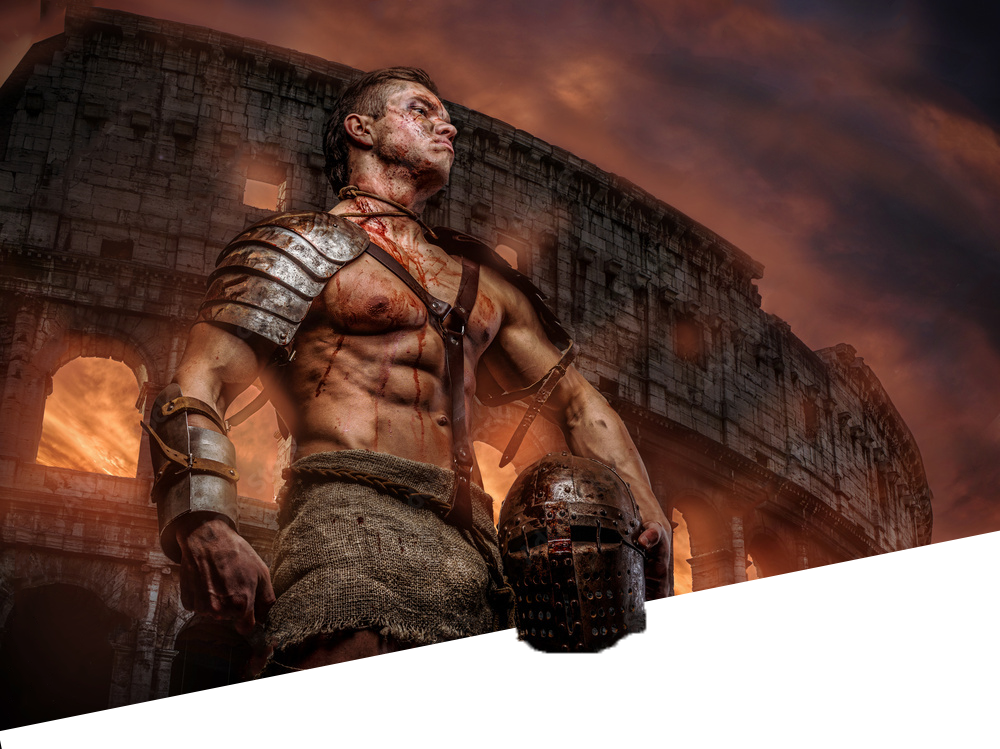
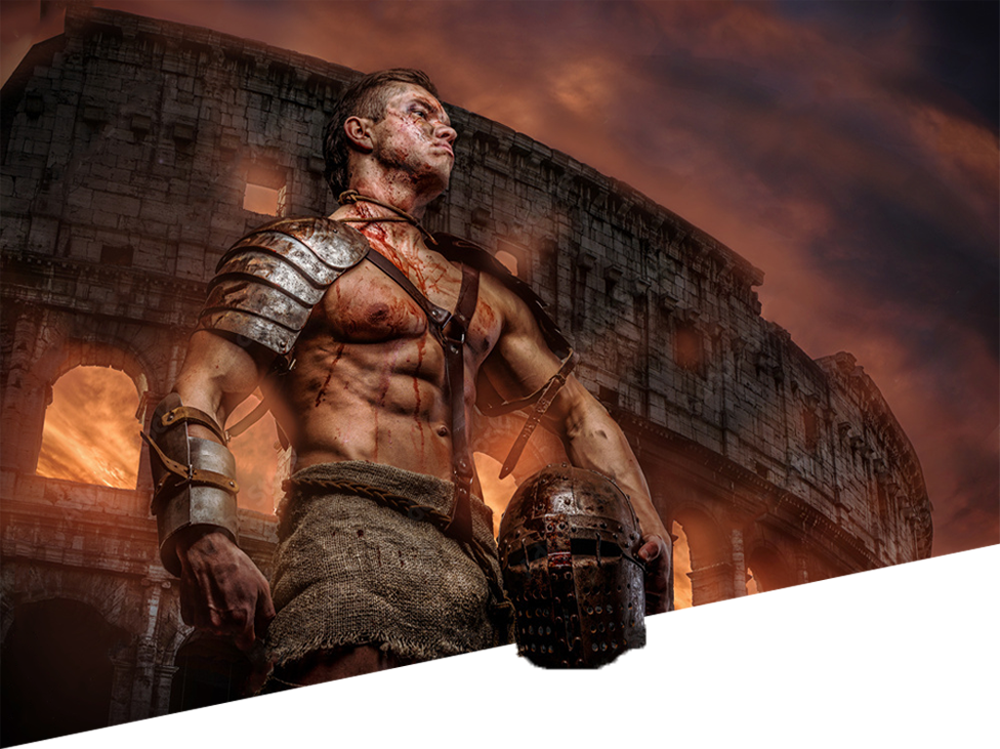
Changed home css

diff --git a/src/screens/styles/Main.css b/src/screens/styles/Main.css
@@ -11,27 +11,34 @@
 .homeIntro {
   display: flex;
   flex-direction: row;
-  align-items: flex-start;
+  align-items: space-around;
   justify-content: flex-start;
   width: 100%;
-  height: 500px;
+  height: 100%;
 }
 
 .homeIntroText {
   display: flex;
   flex-direction: column;
-  justify-content: space-around;
   align-items: center;
-  height: 100%;
+  height: 90vh;
+  width: 100%;
 }
 
 .homeIntro img {
-  width: 800px;
-  height: 700px;
+  width: 62%;
+  height: 90vh;
 }
 
 .homeIntro h1 {
-  text-align: left;
+  font-size: 3em;
+  width: 350px;
+  margin-top: 50px;
+}
+
+.homeIntro h2 {
+  width: 350px;
+  margin-top: 100px;
 }
 
 .paris {
@@ -39,8 +46,9 @@
   flex-direction: column;
   justify-content: center;
   align-items: space-around;
-  width: 100vw;
-  margin: 100px 0;
+  width: 100%;
+  margin: 80px 0;
+  background: var(--fourColor);
 }
 
 .paris h2 {
@@ -52,7 +60,7 @@
   flex-direction: row;
   justify-content: space-around;
   align-items: center;
-  width: 100vw;
+  width: 100%;
 }
 
 .parisImg img {
@@ -66,7 +74,7 @@
   display: flex;
   flex-direction: row;
   justify-content: space-around;
-  width: 100vw;
+  width: 100%;
 }
 
 .homeBestPlayers h2 {
@@ -81,4 +89,9 @@
 .homePlayersRandom img {
   width: 200px;
   height: 100px;
+}
+
+.homeContact {
+  background: var(--fourColor);
+  width: 100%;
 }

diff --git a/src/screens/Main.js b/src/screens/Main.js
@@ -9,8 +9,16 @@ const Main = () => {
       <div className="homeIntro">
         <img src={Background} alt="gladiator"></img>
         <div className="homeIntroText">
-          <h1>AVE Casear, morituri te salutant</h1>
-          <h2>WinaGlade, le premier site de parie Romain</h2>
+          <h1>
+            AVE Casear,
+            <br />
+            morituri
+            <br /> te salutant
+          </h1>
+          <h2>
+            WinaGlade,
+            <br /> le premier site de parie Romain
+          </h2>
         </div>
       </div>
       <div className="paris">

diff --git a/src/components/Navbar.css b/src/components/Navbar.css
@@ -1,10 +1,19 @@
 /* Menu burger */
 .Nav {
   display: flex;
-  width: 100vw;
+  flex-direction: row;
+  align-items: center;
+  justify-content: center;
+  width: 100%;
   height: 80px;
   background-color: var(--secondColor);
 }
+
+.NavLogo {
+  width: 233px;
+  height: 23px;
+}
+
 #menu-burger {
   position: absolute;
   top: 10px;
@@ -41,7 +50,7 @@
 #navbar {
   position: fixed;
   z-index: 9999;
-  left: -30%;
+  left: -25%;
   top: auto;
   background: var(--secondColor);
   padding: 4em 2em;

diff --git a/src/components/Navbar.js b/src/components/Navbar.js
@@ -1,5 +1,7 @@
 import { useState } from "react";
 
+import Logo from "../assets/logoW.png";
+
 import "./Navbar.css";
 
 const Navbar = () => {
@@ -21,6 +23,7 @@ const Navbar = () => {
 
   return (
     <div className="Nav">
+      <img className="NavLogo" src={Logo} alt="logo"></img>
       <div id="navbar" className="">
         <ul>
           <li className="nav">

diff --git a/src/App.css b/src/App.css
@@ -10,8 +10,9 @@
   --fontBody: "Philosopher", sans-serif;
 }
 
-.App {
-  text-align: center;
+body {
+  margin: 0;
+  padding: 0;
 }
 
 h1 {
@@ -23,6 +24,8 @@ h2,
 h3 {
   font-family: var(--fontBody);
   font-weight: 400;
+  margin: 0;
+  padding: 0;
 }
 
 p {
